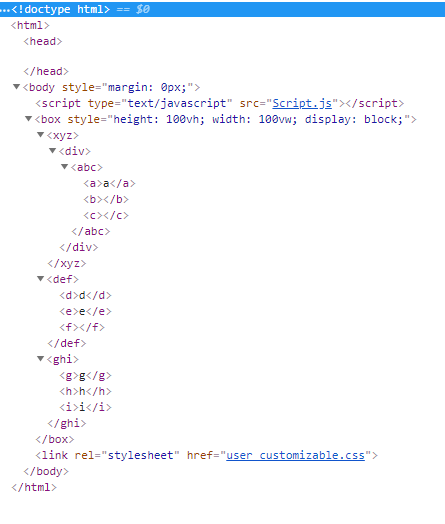
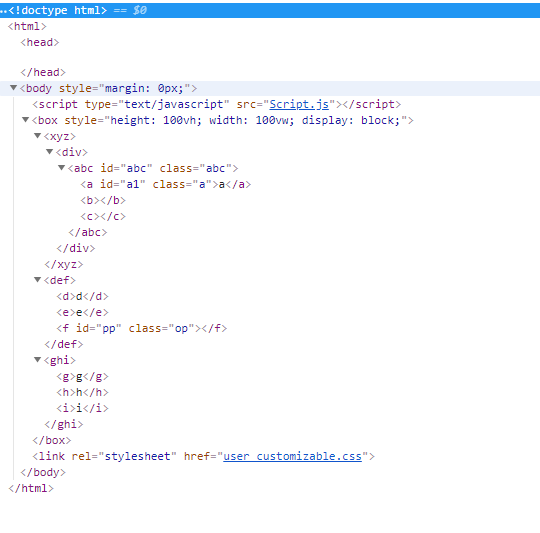
Add files via upload

Changed region(s): [[0.0, 0.1221, 0.9348, 0.9466], [0.0, 0.0, 0.3506, 0.0916]]

diff --git a/HTML WEBcodes/index.html b/HTML WEBcodes/index.html
@@ -8,7 +8,7 @@
 make xyz
 make div in xyz
 make abc id=abc class=abc in div with a(id=a1;class=a;) b c where a is clickable
-make def with d e f where d,e are clickable
+make def with d e f(id=pp;class=op;) where d,e are clickable
 make ghi with g h i where all are clickable
 
 
